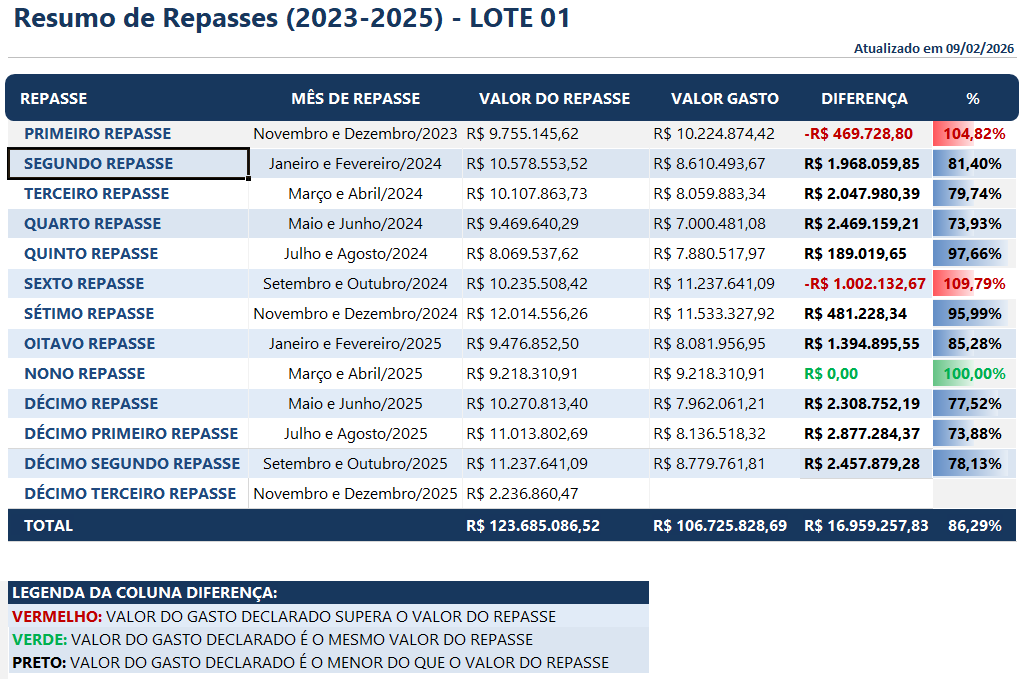
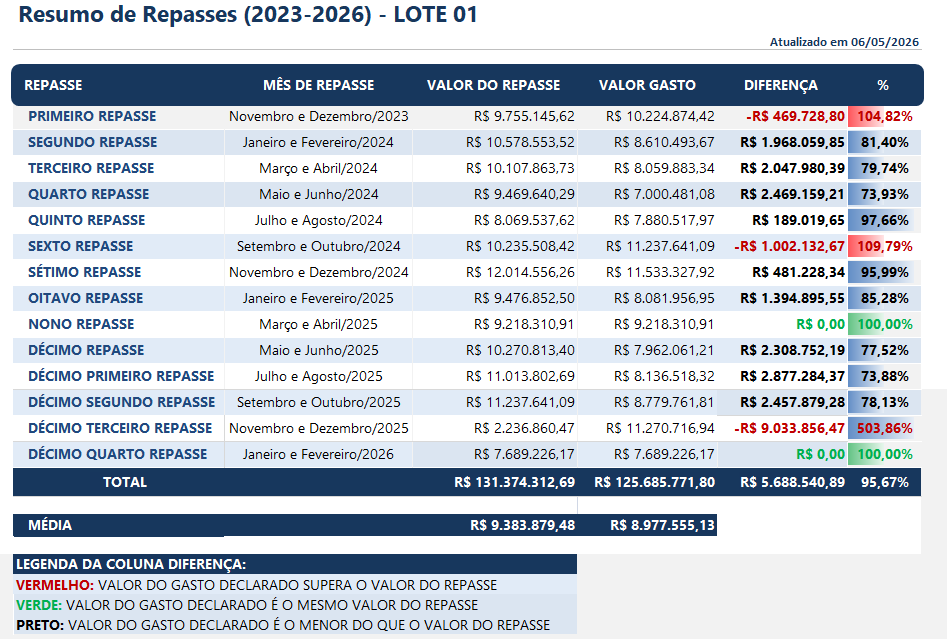
atualização dos repasses
atualização dos repasses

diff --git a/ppedashboard/pages/3_💰Finança.py b/ppedashboard/pages/3_💰Finança.py
@@ -12,9 +12,12 @@ def exibir_repasses_por_imagem():
     pasta_imagens = os.path.join(diretorio_atual, "..", "data", "repasses")
 
     lotes = {
+        
         "Lote 01 - FESFSUS - SECRETARIA DA SAÚDE": "repasse_lote01.png",
         "Lote 02 - FLEM - SECRETARIA DA EDUCAÇÃO": "repasse_lote02.png",
-        "Lote 03 - FLEM - DEMIAS ÓRGÃOS E ENTIDADES": "repasse_lote03.png"
+        "Lote 03 - FLEM - DEMIAS ÓRGÃOS E ENTIDADES": "repasse_lote03.png",
+        "Lote  - FLEM -Lotes 02 e 03": "repasse_lote04.png",
+        "Todo os Lotes - FESFSUS - SECRETARIA DA SAÚDE, FLEM - SECRETARIA DA EDUCAÇÃO, DEMIAS ÓRGÃOS E ENTIDADES": "repasse_lote05.png",
     }
 
     for nome_lote, arquivo in lotes.items():
